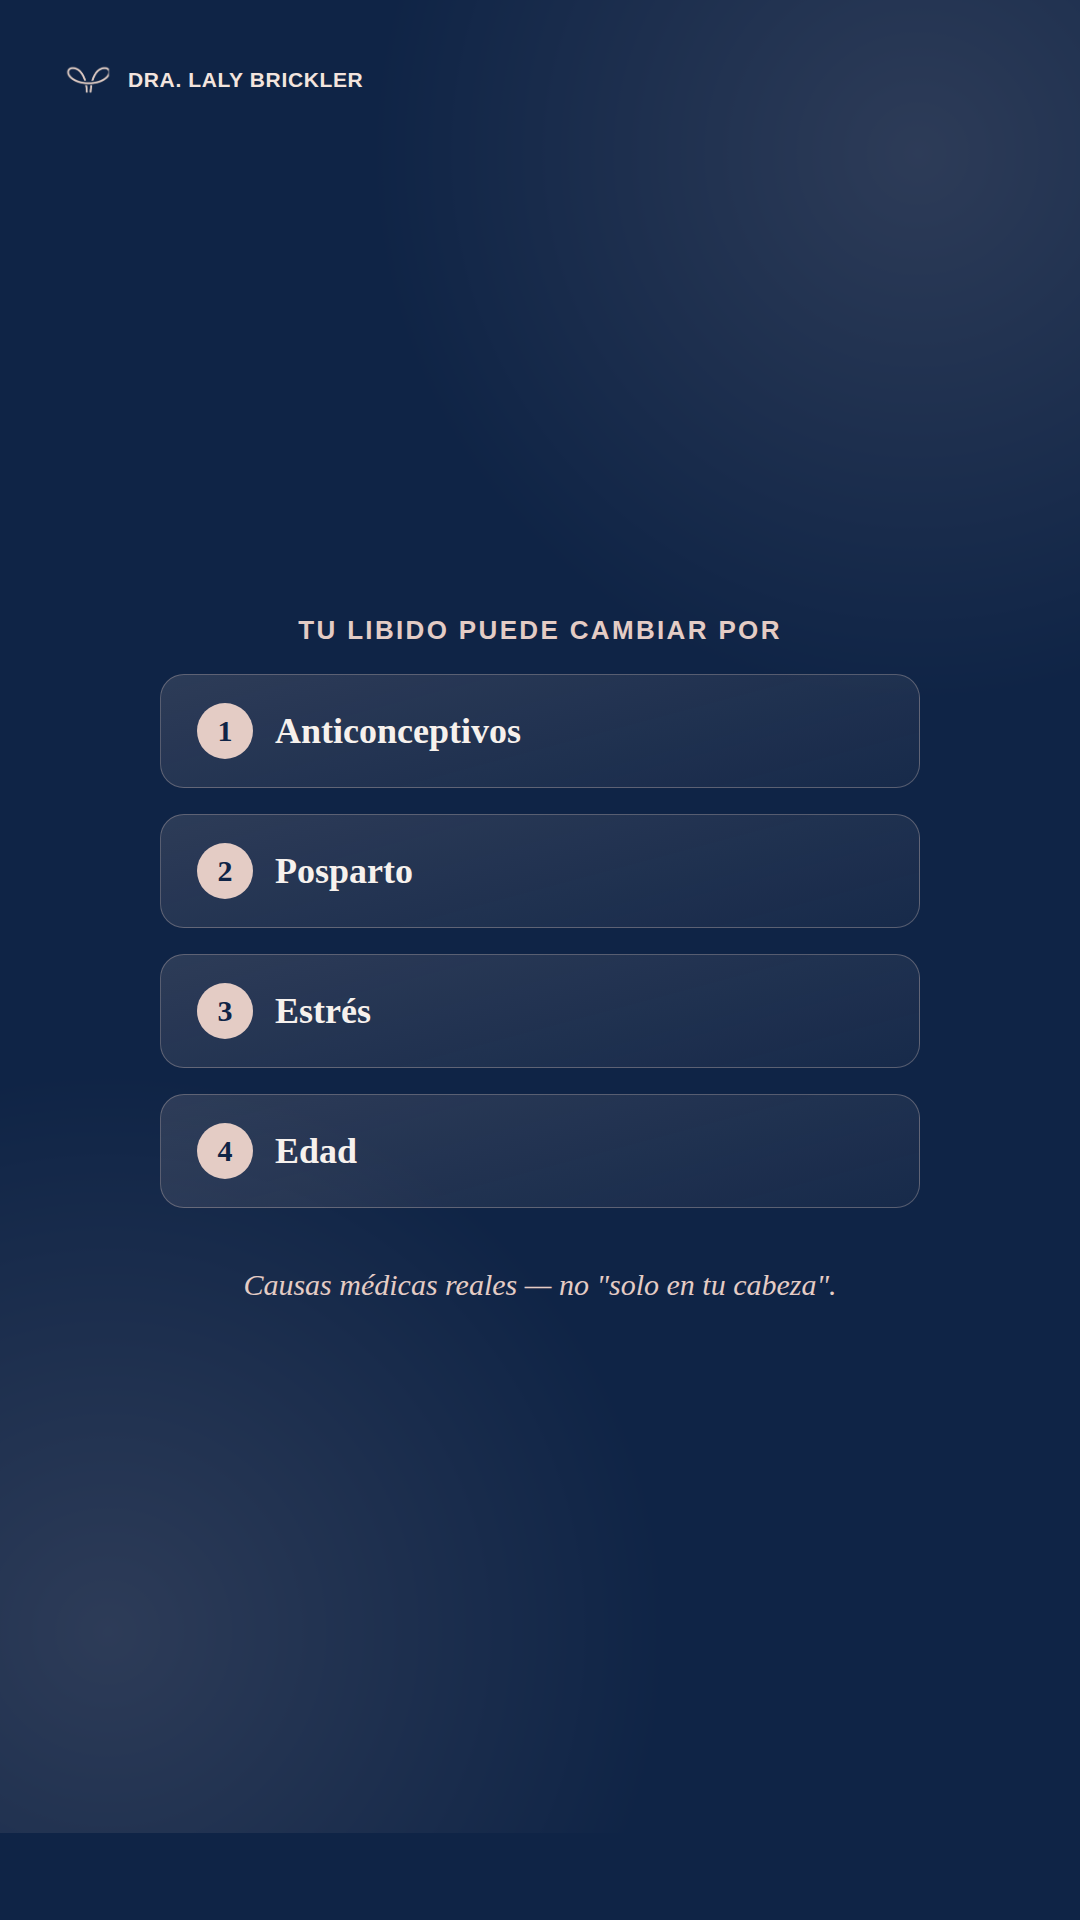
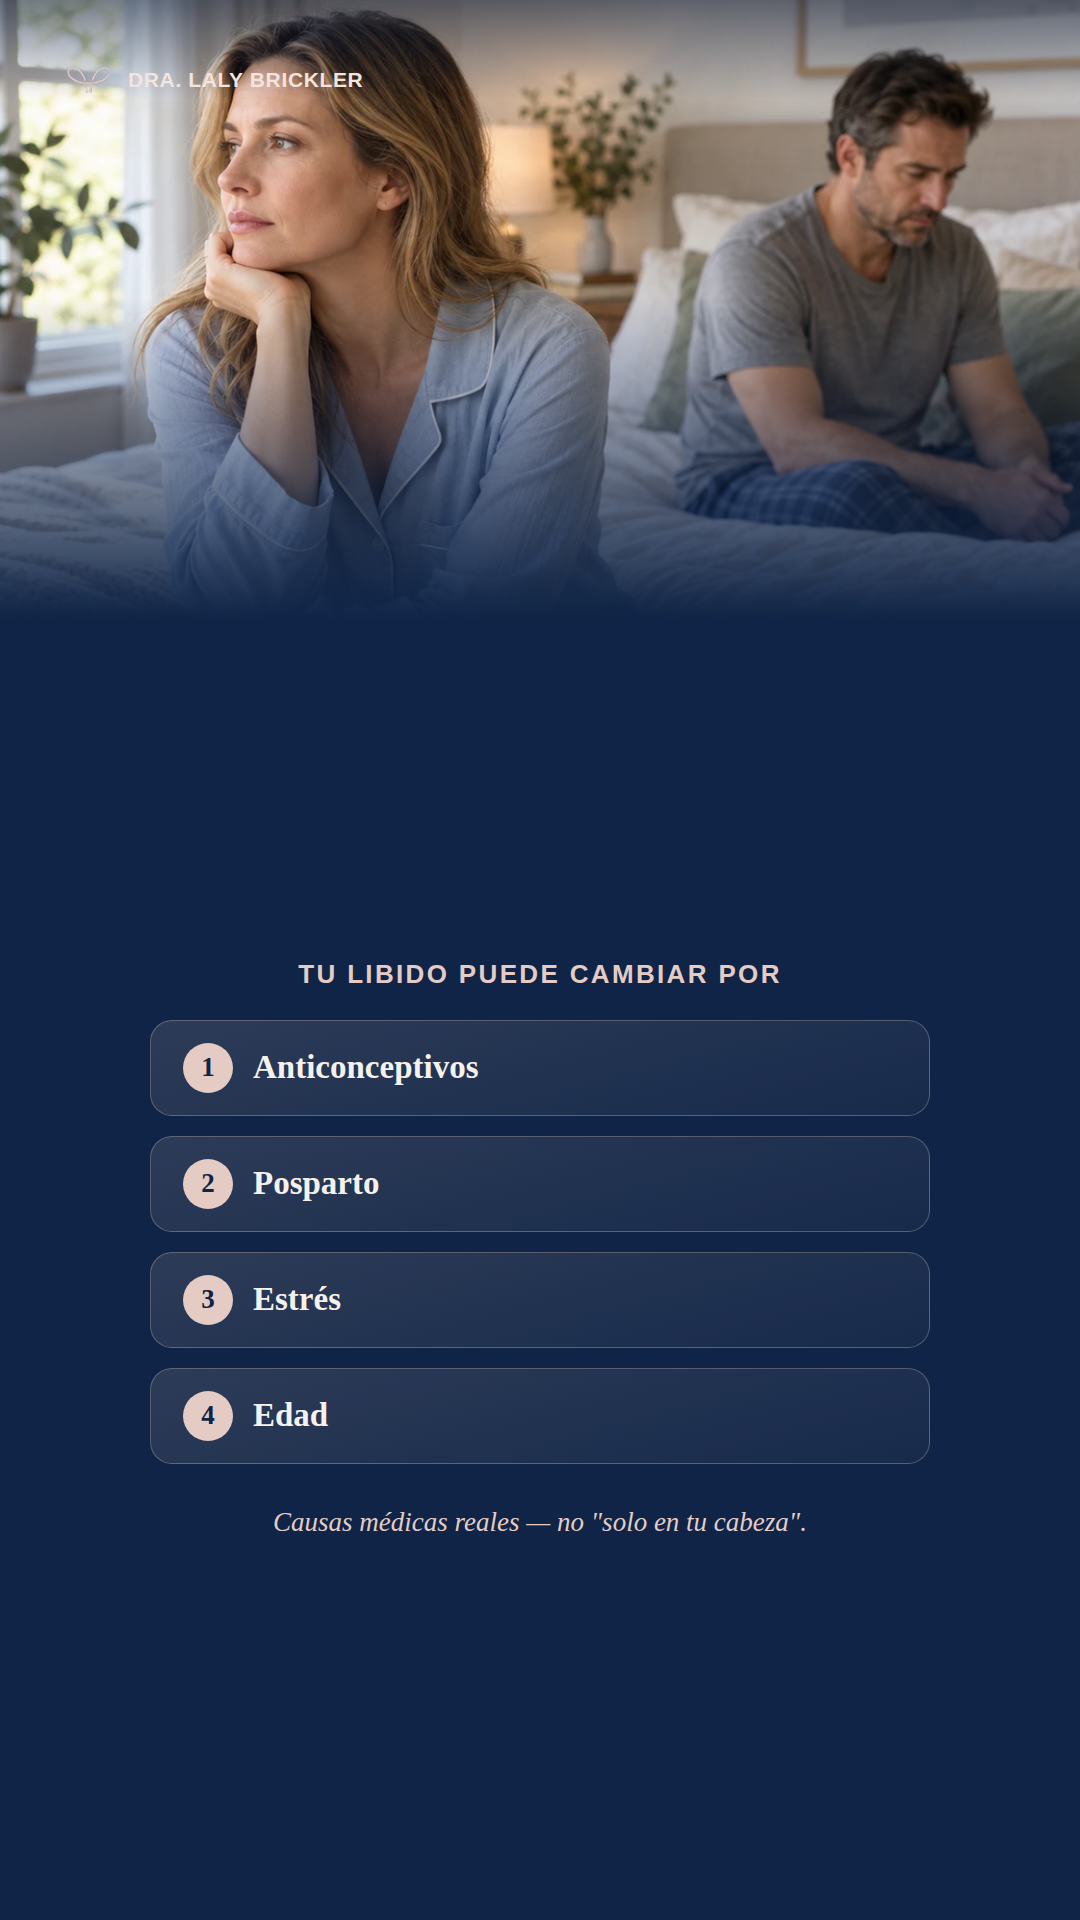
Add real photos to the "deseo sexual sin pena" reel slides
Full-bleed photos with navy tint/scrim on all 3 scenes: pensive
portrait for the hook, a distant couple for the causes slide,
and a warm confident headshot for the CTA close.

Claude-Session: https://claude.ai/code/session_01LtTLwZrPZbyahK5aD18j7d

diff --git a/assets/export-libido/slide-2-causas.html b/assets/export-libido/slide-2-causas.html
@@ -6,41 +6,38 @@
 <style>
 *{box-sizing:border-box;margin:0;padding:0}
 html,body{width:1080px;height:1920px;overflow:hidden;background:#0F2446;font-family:'Work Sans',sans-serif}
-.frame{position:relative;width:1080px;height:1920px}
-.loop-field{position:absolute;inset:0;opacity:.14;background:
-  radial-gradient(circle at 85% 8%, #E4CCC5 0, transparent 28%),
-  radial-gradient(circle at 10% 85%, #E4CCC5 0, transparent 30%);
-  pointer-events:none}
-.brand{position:absolute;top:64px;left:64px;display:flex;align-items:center;gap:16px}
+.frame{position:relative;width:1080px;height:1920px;display:flex;flex-direction:column}
+.frame-photo-top{position:relative;flex:0 0 620px;background-image:url('foto2.webp');background-size:cover;background-position:center 22%;z-index:0}
+.frame-photo-top::after{content:"";position:absolute;inset:0;background:linear-gradient(180deg, rgba(8,24,51,.55) 0%, rgba(8,24,51,0) 16%, rgba(15,36,70,0) 48%, #0F2446 100%)}
+.brand{position:absolute;top:64px;left:64px;display:flex;align-items:center;gap:16px;z-index:3}
 .brand img{width:48px;height:auto;display:block}
 .brand span{font-size:21px;color:#F3E4DE;letter-spacing:.03em;font-weight:600}
 
-.body{position:absolute;inset:0;display:flex;flex-direction:column;justify-content:center;align-items:center;padding:0 80px;text-align:center}
-.eyebrow{color:#E4CCC5;font-size:26px;letter-spacing:.09em;text-transform:uppercase;font-weight:700;margin-bottom:28px}
-.title{font-family:'Fraunces',Georgia,serif;color:#F6F1ED;font-size:52px;line-height:1.22;font-weight:500;max-width:820px;text-wrap:balance;margin-bottom:64px}
+.body{position:relative;flex:1;z-index:2;display:flex;flex-direction:column;justify-content:center;align-items:center;padding:0 80px 40px;text-align:center}
+.eyebrow{color:#E4CCC5;font-size:26px;letter-spacing:.09em;text-transform:uppercase;font-weight:700;margin-bottom:30px}
 
-.causes{display:flex;flex-direction:column;gap:26px;width:100%;max-width:760px}
+.causes{display:flex;flex-direction:column;gap:20px;width:100%;max-width:780px}
 .cause{
-  display:flex;align-items:center;gap:22px;
+  display:flex;align-items:center;gap:20px;
   background:linear-gradient(165deg, rgba(228,204,197,.14), rgba(228,204,197,.04));
   border:1px solid rgba(228,204,197,.3);
-  border-radius:24px;
-  padding:28px 36px;
+  border-radius:22px;
+  padding:22px 32px;
   text-align:left;
 }
 .cause .n{
-  font-family:'Fraunces',Georgia,serif;font-weight:600;font-size:30px;
+  font-family:'Fraunces',Georgia,serif;font-weight:600;font-size:27px;
   color:#0F2446;background:#E4CCC5;
-  width:56px;height:56px;border-radius:50%;
+  width:50px;height:50px;border-radius:50%;
   display:flex;align-items:center;justify-content:center;flex:none;
 }
-.cause .t{font-family:'Fraunces',Georgia,serif;color:#F6F1ED;font-size:36px;font-weight:600}
+.cause .t{font-family:'Fraunces',Georgia,serif;color:#F6F1ED;font-size:33px;font-weight:600}
 
-.not-psych{margin-top:56px;font-family:'Fraunces',Georgia,serif;font-style:italic;color:#E4CCC5;font-size:30px;text-align:center;max-width:740px;line-height:1.4}
+.not-psych{margin-top:40px;font-family:'Fraunces',Georgia,serif;font-style:italic;color:#E4CCC5;font-size:27px;text-align:center;max-width:740px;line-height:1.4}
 </style></head>
 <body>
 <div class="frame">
-  <div class="loop-field"></div>
+  <div class="frame-photo-top"></div>
   <div class="brand"><img src="icon.png" alt=""><span>DRA. LALY BRICKLER</span></div>
   <div class="body">
     <span class="eyebrow">Tu libido puede cambiar por</span>

diff --git a/assets/export-libido/slide-3-cta.html b/assets/export-libido/slide-3-cta.html
@@ -7,24 +7,24 @@
 *{box-sizing:border-box;margin:0;padding:0}
 html,body{width:1080px;height:1920px;overflow:hidden;background:#0F2446;font-family:'Work Sans',sans-serif}
 .frame{position:relative;width:1080px;height:1920px}
-.loop-field{position:absolute;inset:0;opacity:.16;background:
-  radial-gradient(circle at 88% 12%, #E4CCC5 0, transparent 30%),
-  radial-gradient(circle at 10% 20%, #E4CCC5 0, transparent 26%),
-  radial-gradient(circle at 78% 92%, #E4CCC5 0, transparent 28%);
-  pointer-events:none}
-.body{position:absolute;inset:0;display:flex;flex-direction:column;justify-content:center;padding:0 86px}
-.eyebrow{color:#E4CCC5;font-size:25px;letter-spacing:.1em;text-transform:uppercase;font-weight:700;margin-bottom:30px}
-.cta-head{font-family:'Fraunces',Georgia,serif;color:#F6F1ED;font-size:62px;line-height:1.2;font-weight:500;max-width:880px;text-wrap:balance;margin-bottom:50px}
-.cta-pill{display:inline-flex;align-items:center;gap:16px;background:#E4CCC5;color:#081833;font-weight:700;font-size:36px;padding:26px 42px;border-radius:999px;width:fit-content}
-.cta-logo{display:flex;align-items:center;gap:22px;margin-top:58px}
-.cta-logo img{width:72px;height:auto;display:block}
+.photo-layer{position:absolute;inset:0;background-image:url('foto3.webp');background-size:cover;background-position:center 18%;z-index:0}
+.photo-tint{position:absolute;inset:0;background:#0F2446;opacity:.2;mix-blend-mode:multiply;z-index:1}
+.photo-scrim{position:absolute;inset:0;background:linear-gradient(180deg, rgba(8,24,51,0) 0%, rgba(8,24,51,0) 38%, rgba(8,24,51,.7) 66%, rgba(8,24,51,.97) 100%);z-index:1}
+.body{position:absolute;inset:0;z-index:2;display:flex;flex-direction:column;justify-content:flex-end;padding:0 78px 110px}
+.eyebrow{color:#E4CCC5;font-size:25px;letter-spacing:.1em;text-transform:uppercase;font-weight:700;margin-bottom:28px}
+.cta-head{font-family:'Fraunces',Georgia,serif;color:#F6F1ED;font-size:54px;line-height:1.22;font-weight:500;max-width:880px;text-wrap:balance;margin-bottom:46px}
+.cta-pill{display:inline-flex;align-items:center;gap:16px;background:#E4CCC5;color:#081833;font-weight:700;font-size:34px;padding:24px 40px;border-radius:999px;width:fit-content}
+.cta-logo{display:flex;align-items:center;gap:22px;margin-top:52px}
+.cta-logo img{width:68px;height:auto;display:block}
 .cta-logo .ln{display:flex;flex-direction:column;line-height:1.3}
-.cta-logo .ln b{font-family:'Fraunces',Georgia,serif;color:#F6F1ED;font-size:33px;font-weight:600}
-.cta-logo .ln small{color:#F3E4DE;font-size:22px;letter-spacing:.03em}
+.cta-logo .ln b{font-family:'Fraunces',Georgia,serif;color:#F6F1ED;font-size:31px;font-weight:600}
+.cta-logo .ln small{color:#F3E4DE;font-size:21px;letter-spacing:.03em}
 </style></head>
 <body>
 <div class="frame">
-  <div class="loop-field"></div>
+  <div class="photo-layer"></div>
+  <div class="photo-tint"></div>
+  <div class="photo-scrim"></div>
   <div class="body">
     <span class="eyebrow">Salud sexual femenina</span>
     <p class="cta-head">Es un tema médico. Como cualquier otro. Hablémoslo en consulta, sin pena.</p>

diff --git a/assets/export-libido/slide-1-hook.html b/assets/export-libido/slide-1-hook.html
@@ -7,21 +7,21 @@
 *{box-sizing:border-box;margin:0;padding:0}
 html,body{width:1080px;height:1920px;overflow:hidden;background:#0F2446;font-family:'Work Sans',sans-serif}
 .frame{position:relative;width:1080px;height:1920px}
-.loop-field{position:absolute;inset:0;opacity:.17;background:
-  radial-gradient(circle at 14% 10%, #E4CCC5 0, transparent 30%),
-  radial-gradient(circle at 88% 16%, #E4CCC5 0, transparent 27%),
-  radial-gradient(circle at 22% 90%, #E4CCC5 0, transparent 28%);
-  pointer-events:none}
-.brand{position:absolute;top:64px;left:64px;display:flex;align-items:center;gap:16px}
+.photo-layer{position:absolute;inset:0;background-image:url('foto1.webp');background-size:cover;background-position:center 18%;z-index:0}
+.photo-tint{position:absolute;inset:0;background:#0F2446;opacity:.22;mix-blend-mode:multiply;z-index:1}
+.photo-scrim{position:absolute;inset:0;background:linear-gradient(180deg, rgba(8,24,51,0) 0%, rgba(8,24,51,0) 32%, rgba(8,24,51,.66) 62%, rgba(8,24,51,.97) 100%);z-index:1}
+.brand{position:absolute;top:64px;left:64px;display:flex;align-items:center;gap:16px;z-index:3}
 .brand img{width:48px;height:auto;display:block}
 .brand span{font-size:21px;color:#F3E4DE;letter-spacing:.03em;font-weight:600}
-.body{position:absolute;inset:0;display:flex;flex-direction:column;justify-content:center;align-items:center;padding:0 90px;text-align:center}
-.headline{font-family:'Fraunces',Georgia,serif;font-weight:600;color:#E4CCC5;font-size:108px;line-height:1.02;margin-bottom:40px}
-.sub{font-family:'Fraunces',Georgia,serif;font-weight:500;color:#F6F1ED;font-size:44px;line-height:1.3;max-width:840px;text-wrap:balance}
+.body{position:absolute;inset:0;z-index:2;display:flex;flex-direction:column;justify-content:flex-end;align-items:center;padding:0 80px 130px;text-align:center}
+.headline{font-family:'Fraunces',Georgia,serif;font-weight:600;color:#E4CCC5;font-size:92px;line-height:1.04;margin-bottom:36px}
+.sub{font-family:'Fraunces',Georgia,serif;font-weight:500;color:#F6F1ED;font-size:38px;line-height:1.32;max-width:840px;text-wrap:balance}
 </style></head>
 <body>
 <div class="frame">
-  <div class="loop-field"></div>
+  <div class="photo-layer"></div>
+  <div class="photo-tint"></div>
+  <div class="photo-scrim"></div>
   <div class="brand"><img src="icon.png" alt=""><span>DRA. LALY BRICKLER</span></div>
   <div class="body">
     <p class="headline">Tiene nombre.<br>Tiene manejo.</p>
